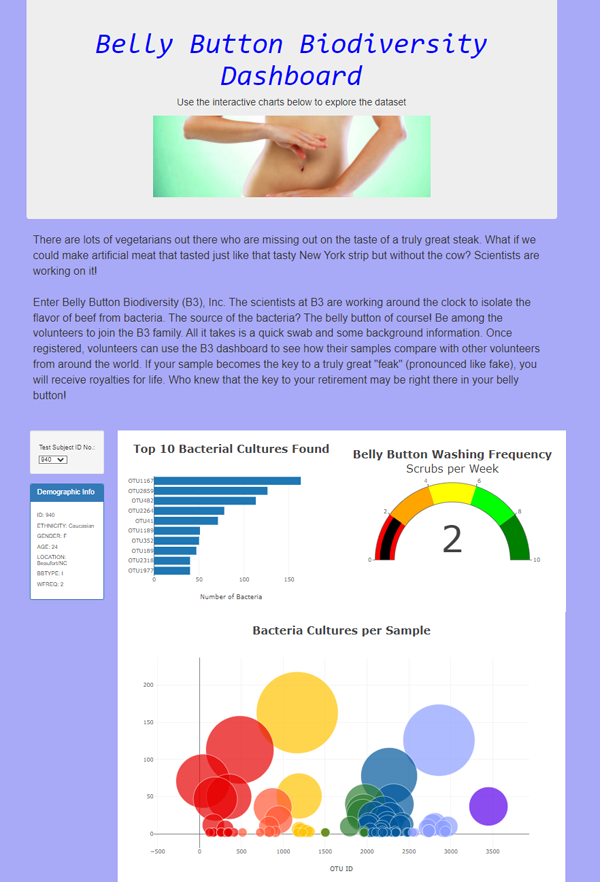
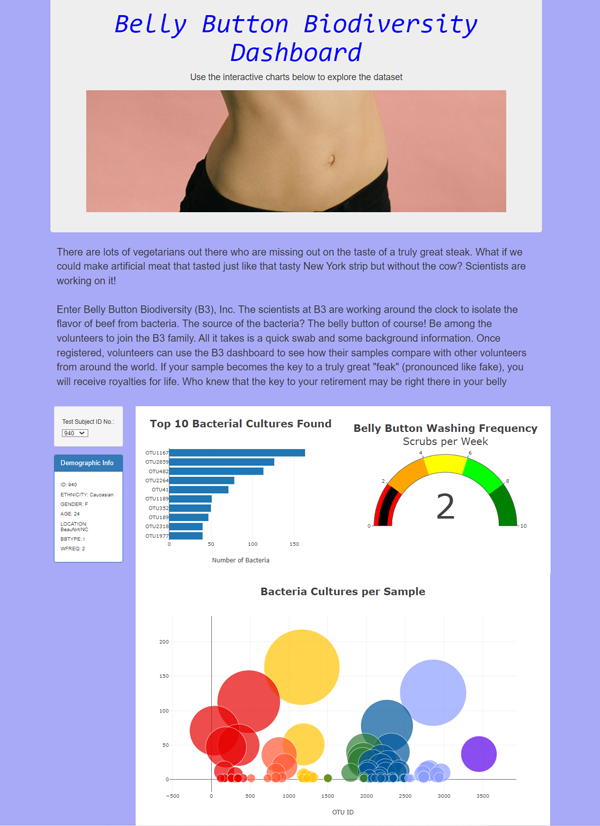
Challenge 12

diff --git a/index.html b/index.html
@@ -18,7 +18,7 @@
         
         <p>Use the interactive charts below to explore the dataset</p>
         <img src="stomach.jpg"> 
-        <!-- adapted from www.peopleimages.com -->
+        <!-- adapted from photo by Kyle Smith on unsplash.com -->
       </div>
     </div>
     <div class = row>
@@ -45,7 +45,6 @@
       <div class="col-md-2">
         <div class="well">
           <h5>Test Subject ID No.:</h5>
-          <!-- <select id="selDataset"></select> -->
           <select id="selDataset" onchange="optionChanged(this.value)"></select>
         </div>
         <div class="panel panel-primary">
